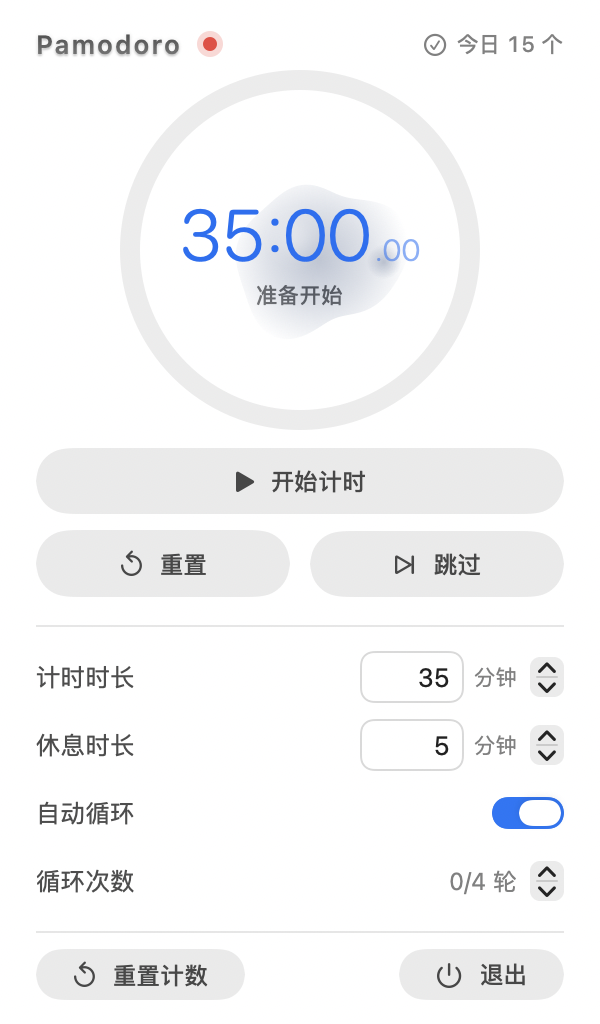
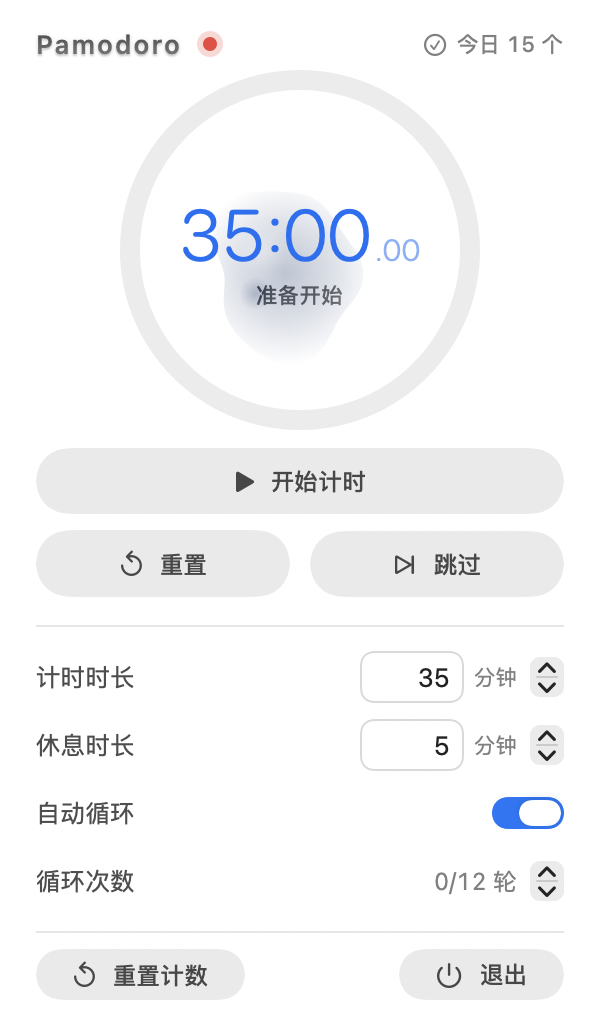
修复重置计数无反馈：改为清零轮数与今日计数，并显示已重置

Changed region(s): [[0.54, 0.1875, 0.66, 0.3125], [0.36, 0.25, 0.45, 0.3125], [0.72, 0.8438, 0.81, 0.875]]

diff --git a/Sources/PopoverView.swift b/Sources/PopoverView.swift
@@ -20,6 +20,7 @@ struct PopoverView: View {
     }
 
     @ObservedObject private var hover = HoverState()
+    @ObservedObject private var flash = ResetFlash()
 
     private var tint: Color { .accentColor }
 
@@ -339,9 +340,14 @@ struct PopoverView: View {
         HStack(spacing: 8) {
             Button {
                 SoundFX.shared.click()
-                engine.resetRoundCount()
+                engine.resetCounters()
+                flash.didReset = true
+                DispatchQueue.main.asyncAfter(deadline: .now() + 1.2) {
+                    flash.didReset = false
+                }
             } label: {
-                Label("重置计数", systemImage: "arrow.counterclockwise")
+                Label(flash.didReset ? "已重置" : "重置计数",
+                      systemImage: flash.didReset ? "checkmark" : "arrow.counterclockwise")
                     .font(.system(size: 12, weight: .medium))
                     .padding(.horizontal, 6)
                     .padding(.vertical, 1)
@@ -349,7 +355,7 @@ struct PopoverView: View {
             .buttonStyle(.bordered)
             .controlSize(.regular)
             .clipShape(Capsule())
-            .help("把本次循环的完成轮数清零")
+            .help("清零循环轮数与今日完成数")
 
             Spacer(minLength: 0)
 
@@ -364,4 +370,9 @@ struct PopoverView: View {
             .clipShape(Capsule())
         }
     }
+}
+
+/// 「重置计数」按钮的短暂确认态（用 ObservableObject 代替 @State：swiftc 直接编译时宏插件不可用）
+final class ResetFlash: ObservableObject {
+    @Published var didReset = false
 }

diff --git a/Sources/PomodoroEngine.swift b/Sources/PomodoroEngine.swift
@@ -229,10 +229,15 @@ final class PomodoroEngine: ObservableObject {
         notifyUpdate()
     }
 
-    /// 重置本轮循环计数
-    func resetRoundCount() {
+    /// 重置计数：轮数归零，同时清掉今日完成数
+    @discardableResult
+    func resetCounters() -> Bool {
+        let hadSomething = completedRounds > 0 || completedToday > 0
         completedRounds = 0
+        completedToday = 0
+        saveCount()
         notifyUpdate()
+        return hadSomething
     }
 
     // MARK: - 计时

diff --git a/Sources/main.swift b/Sources/main.swift
@@ -315,6 +315,7 @@ final class AppDelegate: NSObject, NSApplicationDelegate, NSPopoverDelegate {
         }
 
 
+
         if env["POMODORO_DEBUG_CLICK"] != nil {
             DispatchQueue.main.asyncAfter(deadline: .now() + 0.6) { [weak self] in
                 guard let self = self else { return }
